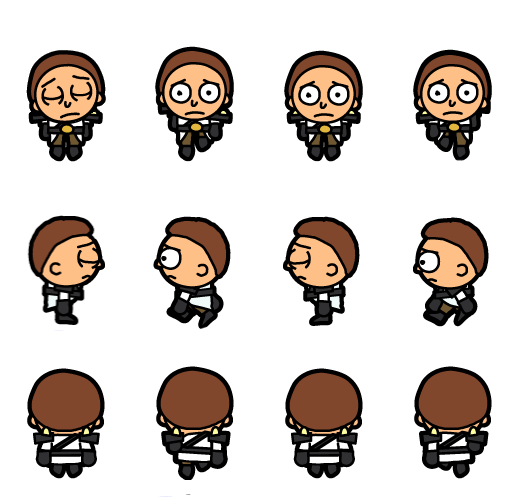
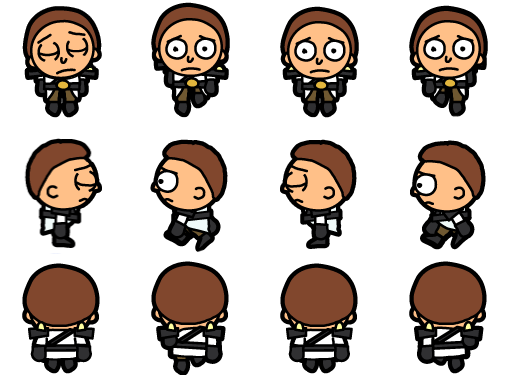
Images resized

diff --git a/Final TP & Triggers/src/dkeep/gui/Game.java b/Final TP & Triggers/src/dkeep/gui/Game.java
@@ -43,6 +43,7 @@ public class Game extends JPanel implements KeyListener {
 	public Game(String title2){
 
 		levelPositionArray = 1;
+
 		levels = new GameMap[3];
 		levels[1] = new GuardMap();
 		levels[2] = new OgreMap();
@@ -53,15 +54,7 @@ public class Game extends JPanel implements KeyListener {
 
 		gameLogic.currentMap = levels[levelPositionArray];
 
-		this.mapWidth = gameLogic.currentMap.getMap().length;
-		this.mapHeight = gameLogic.currentMap.getMap().length;
-
-		System.out.println(gameLogic.currentMap.getMap().length + "MERDA");
-
-		if(title2 == "Editor")
-			this.mult = Math.round(width / gameLogic.currentMap.getMap().length);
-		else
-			this.mult = Math.round(width / mapWidth);
+		
 
 		Assets.init();
 
@@ -79,14 +72,16 @@ public class Game extends JPanel implements KeyListener {
 			}
 			gameLogic.createCharacters(1, guardType, numMechas);
 			System.out.println(guardType);
-			
+
 		}
 		else
 			levelPositionArray = 0;
-		
-		
 
-		
+		this.mapWidth = gameLogic.currentMap.getMap().length;
+		this.mapHeight = gameLogic.currentMap.getMap().length;
+
+		this.mult = Math.round(width / mapWidth);
+
 		panelWidth =  mapWidth * mult + 12;
 		panelHeight = mapHeight * mult + 37;
 
@@ -101,7 +96,7 @@ public class Game extends JPanel implements KeyListener {
 	public void display() { 
 		f = new JFrame("Prison Escape");     
 		f.setContentPane(this);
-		f.setSize((int)panelWidth + 300, (int)panelHeight);
+		f.setSize((int)panelWidth, (int)panelHeight);
 		f.setVisible(true);
 		f.setDefaultCloseOperation(JFrame.EXIT_ON_CLOSE);
 		f.setResizable(false);
@@ -175,8 +170,8 @@ public class Game extends JPanel implements KeyListener {
 		} else if (key == 'd'){
 			hero = Assets.heroLeft;
 		}
-		
-		
+
+
 		if (levelPositionArray == 1) {
 			if(guardMove == 'w'){
 				guard = Assets.guardBack;
@@ -190,9 +185,9 @@ public class Game extends JPanel implements KeyListener {
 			gameLogic.guard.move();
 
 		}
-		
-		
-		
+
+
+
 		else if (levelPositionArray == 2 || levelPositionArray == 0) {			
 			for(int i = 0; i < gameLogic.ogres.size(); i++){
 				ogreMove = gameLogic.ogre.createRandomMove();
@@ -200,9 +195,6 @@ public class Game extends JPanel implements KeyListener {
 				boolean stunned = isStunned(i);
 
 				if(ogreMove == 'w'){
-					if(stunned)
-						ogresSprite[i] = Assets.sOgreBack;
-					else
 						ogresSprite[i] = Assets.ogreBack;
 				} else if (ogreMove == 'a'){
 					if(stunned)
@@ -277,16 +269,17 @@ public class Game extends JPanel implements KeyListener {
 		drawStructures(g, mult);
 
 		int a = (int)mult;
+		int size = (int) (a * 1.5);
 
-		g.drawImage(hero, gameLogic.hero.getY() * a , gameLogic.hero.getX() * a - a, 64, 90, null);
+		g.drawImage(hero, gameLogic.hero.getY() * a - a/4, gameLogic.hero.getX() * a - a, size, size, null);
 
 		if(gameLogic.currentMap.getName() == "GuardMap"){
-			g.drawImage(guard,  gameLogic.guard.getY() * a, gameLogic.guard.getX() * a - a, 64, 90, null);
+			g.drawImage(guard,  gameLogic.guard.getY() * a - a/4, gameLogic.guard.getX() * a - a, size, size, null);
 		}
 		else {
 			for(int i = 0; i < gameLogic.ogres.size(); i++){
 				g.drawImage(Assets.club, gameLogic.ogres.get(i).getClubY()* a, gameLogic.ogres.get(i).getClubX()* a, 50, 50, null);
-				g.drawImage(ogresSprite[i], gameLogic.ogres.get(i).getY()* a, gameLogic.ogres.get(i).getX()* a - a, 54, 80, null);
+				g.drawImage(ogresSprite[i], gameLogic.ogres.get(i).getY()* a - a/4, gameLogic.ogres.get(i).getX()* a - a, size, size, null);
 			}
 		}
 

diff --git a/Final TP & Triggers/src/dkeep/gui/Assets.java b/Final TP & Triggers/src/dkeep/gui/Assets.java
@@ -6,13 +6,13 @@ public class Assets {
 	/**
 	 * Initializes all assets. 
 	 */
-	public static final int width = 129, height = 163, wallWidth = 24, wallHeight = 24;
+	public static final int width = 127, height = 127, heroWidth = 163, heroHeight = 163, wallWidth = 24, wallHeight = 24;
 
 	public static BufferedImage 
 	guardFront, guardLeft, guardRight, guardBack,
 	sGuardFront, sGuardLeft, sGuardRight, sGuardBack,
 	ogreFront, ogreLeft, ogreRight, ogreBack,
-	sOgreFront, sOgreLeft, sOgreRight, sOgreBack,
+	sOgreFront, sOgreLeft, sOgreRight,
 	heroFront, heroLeft, heroRight, heroBack,
 	topWall, leftWall, rightWall, bottomWall, 
 	topLeftWall, topRightWall, bottomLeftWall, bottomRightWall, wall,
@@ -35,10 +35,10 @@ public class Assets {
 		SpriteSheet sOgreSheet = new SpriteSheet(ImageLoader.loadImage("/MechaAsleep.png"));
 		
 		
-		heroFront = heroSheet.crop(0, 0, width, height);
-		heroLeft = heroSheet.crop(0, height, width, height);
-		heroRight = heroSheet.crop(width*2, height, width, height);
-		heroBack = heroSheet.crop(0, height*2, width, height);
+		heroFront = heroSheet.crop(0, 0, heroWidth, heroHeight);
+		heroBack = heroSheet.crop(0, heroHeight, heroWidth, heroHeight);
+		heroLeft = heroSheet.crop(heroWidth, 0, heroWidth, heroHeight);
+		heroRight = heroSheet.crop(heroWidth*2, 0, heroWidth, heroHeight);
 
 		guardFront = guardSheet.crop(0, 0, width, height);
 		guardLeft = guardSheet.crop(0, height, width, height);
@@ -50,15 +50,14 @@ public class Assets {
 		sGuardRight = sGuardSheet.crop(width*2, height, width, height);
 		sGuardBack = sGuardSheet.crop(0, height*2, width, height);
 		
-		ogreFront = mechaSheet.crop(0, 0, width, height);
-		ogreLeft = mechaSheet.crop(0, height, width, height);
-		ogreRight = mechaSheet.crop(width*2, height, width, height);
-		ogreBack = mechaSheet.crop(0, height*2, width, height);
+		ogreFront = mechaSheet.crop(0, 0, heroWidth, heroHeight);
+		ogreBack = mechaSheet.crop(0, heroHeight, heroWidth, heroHeight);
+		ogreLeft = mechaSheet.crop(heroWidth, 0, heroWidth, heroHeight);
+		ogreRight = mechaSheet.crop(heroWidth*2, 0, heroWidth, heroHeight);
 		
-		sOgreFront = sOgreSheet.crop(0, 0, width, height);
-		sOgreLeft = sOgreSheet.crop(0, height, width, height);
-		sOgreRight = sOgreSheet.crop(width*2, height, width, height);
-		sOgreBack = sOgreSheet.crop(0, height*2, width, height);
+		sOgreFront = sOgreSheet.crop(0, 0, heroWidth, heroHeight);
+		sOgreLeft = sOgreSheet.crop(0, heroHeight, heroWidth, heroHeight);
+		sOgreRight = sOgreSheet.crop(heroWidth, 0, heroWidth, heroHeight);
 		
 		club = wallSheet.crop(wallWidth * 4, wallHeight, wallWidth, wallHeight);
 
